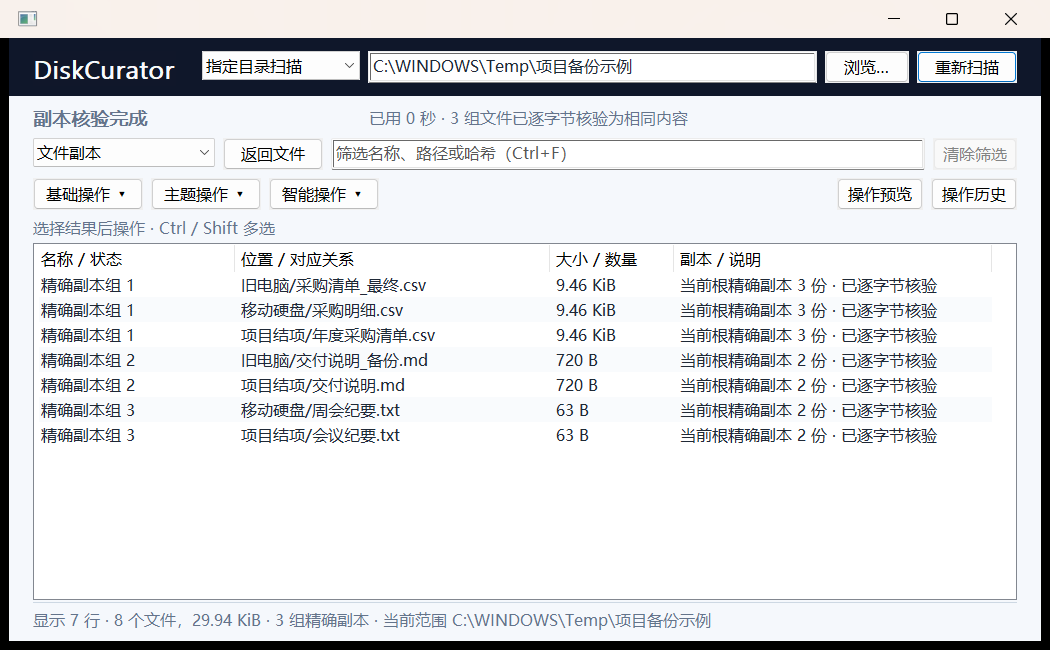
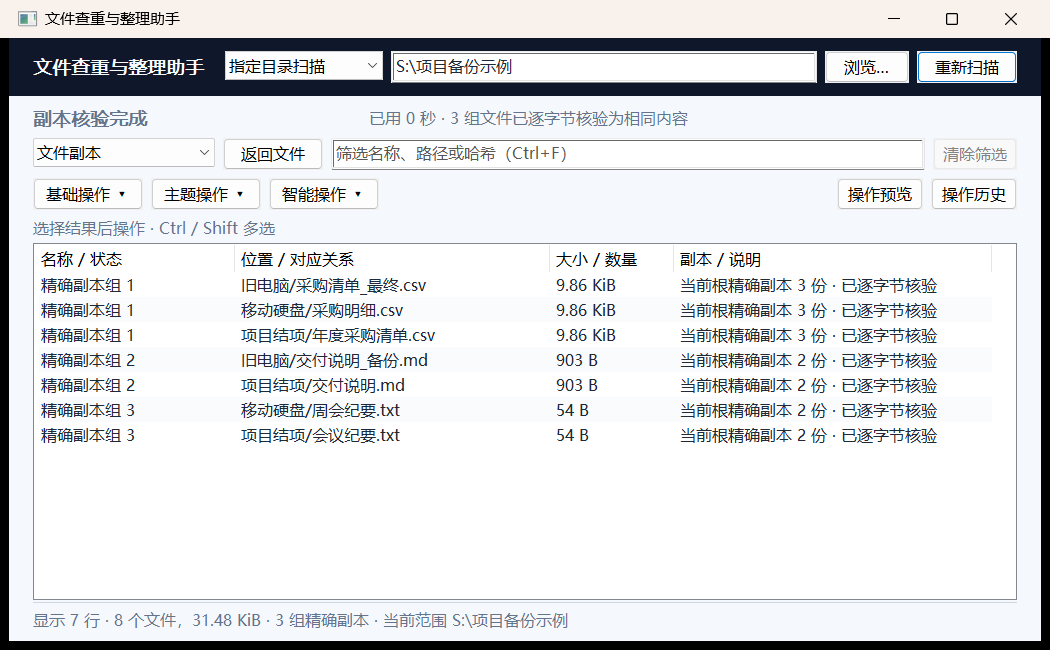
Rename the app to File Dedup Organizer and show its native window title

diff --git a/src/win_main.cpp b/src/win_main.cpp
@@ -32,6 +32,8 @@ namespace fs=std::filesystem;
 
 namespace {
 constexpr UINT WMU_DONE=WM_APP+43;
+constexpr wchar_t kProductName[]=L"文件查重与整理助手";
+constexpr int kCompactTitleWidth=184;
 enum Id { ID_ROOT=100,ID_BROWSE,ID_SCAN,ID_STOP,ID_COMPARE,ID_RENAME,ID_ARCHIVE,ID_QUARANTINE,
           ID_APPLY,ID_UNDO,ID_EXPORT,ID_PHOTO,ID_LIST=114,ID_SEARCH,ID_RELATIONS,ID_MERGE,ID_SUGGEST,ID_STRUCTURE,ID_MAP_EDIT,ID_STRUCTURE_PREVIEW,ID_STRUCTURE_REJECT,ID_RETIRE=125, ID_SCAN_SCOPE=230, ID_LENS_PICK=231, ID_BASIC_ACTIONS=240, ID_THEME_ACTIONS, ID_SMART_ACTIONS, ID_SCAN_PROGRESS, ID_PROGRESS_STAGE, ID_SELECTION_CONTEXT, ID_ALL_RESULTS, ID_PROGRESS_METRICS, ID_PROGRESS_PATH, ID_SHOW_PREVIEW, ID_SHOW_HISTORY,ID_STATUS,
           ID_CLEAR_FILTER=252,ID_WELCOME_TITLE,ID_WELCOME_DETAIL,ID_CHOOSE_FOLDER,ID_CHOOSE_DRIVES,ID_DUPLICATE_VIEW };
@@ -49,7 +51,7 @@ void set_font(HWND h,HFONT f){SendMessageW(h,WM_SETFONT,(WPARAM)f,TRUE);}
 HWND create(HWND parent,const wchar_t* cls,const wchar_t* label,DWORD style,int id,DWORD ex=0){return CreateWindowExW(ex,cls,label,style|WS_CHILD|WS_VISIBLE,0,0,40,24,parent,(HMENU)(INT_PTR)id,GetModuleHandleW(nullptr),nullptr);}
 void move(HWND h,int x,int y,int w,int height){MoveWindow(h,x,y,std::max(1,w),std::max(1,height),TRUE);}
 std::wstring bytes(dc::U64 n){return wutf8(dc::human(n));}
-void alert(HWND owner,const std::wstring& message,UINT style=MB_ICONINFORMATION){MessageBoxW(owner,message.c_str(),L"DiskCurator",style|MB_OK);}
+void alert(HWND owner,const std::wstring& message,UINT style=MB_ICONINFORMATION){MessageBoxW(owner,message.c_str(),kProductName,style|MB_OK);}
 std::wstring fmt(const fs::path& p){if(p.empty())return L".";return p.generic_wstring();}
 // A volume selection is a frozen input contract, not a request to scan all
 // currently visible drives. Volume identity is checked before and after IO.
@@ -159,7 +161,7 @@ void layout_prompt(Prompt* p){
 }
 LRESULT CALLBACK prompt_proc(HWND h,UINT msg,WPARAM w,LPARAM l){
     auto* p=reinterpret_cast<Prompt*>(GetWindowLongPtrW(h,GWLP_USERDATA));
-    if(msg==WM_NCCREATE){auto cs=reinterpret_cast<CREATESTRUCTW*>(l);p=static_cast<Prompt*>(cs->lpCreateParams);SetWindowLongPtrW(h,GWLP_USERDATA,(LONG_PTR)p);p->window=h;return TRUE;}
+    if(msg==WM_NCCREATE){auto cs=reinterpret_cast<CREATESTRUCTW*>(l);p=static_cast<Prompt*>(cs->lpCreateParams);SetWindowLongPtrW(h,GWLP_USERDATA,(LONG_PTR)p);p->window=h;return DefWindowProcW(h,msg,w,l);}
     if(!p)return DefWindowProcW(h,msg,w,l);
     if(msg==WM_CREATE){
         for(size_t i=0;i<p->fields.size();++i){
@@ -761,7 +763,7 @@ struct App {
      const int right=W-margin, width=W-2*margin, gap=8;
      const int scope_width=W<980?126:158;
      const bool ready=has_scan||full_overview();
-     const int scope_x=margin+(W<980?148:169);
+     const int scope_x=margin+kCompactTitleWidth+gap;
      const int root_x=scope_x+scope_width+gap;
      const int action_width=busy?(task_cancelable?72:0):(ready?100:0);
      const int browse_x=right-(action_width?action_width+gap:0)-84;
@@ -826,8 +828,8 @@ struct App {
      RECT rc{};GetClientRect(hwnd,&rc);const int W=rc.right,H=rc.bottom;
      const int margin=W<980?14:24;
      solid(dc,rc,kPage);solid(dc,RECT{0,0,W,58},kNavy);
-     label_at(dc,display_font,L"DiskCurator",margin,12,190,38,RGB(248,250,252));
-     if(!scope_controls_open)label_at(dc,font,L"磁盘文件整理",margin+164,16,190,31,RGB(196,215,231));
+     label_at(dc,scope_controls_open?bold_font:display_font,kProductName,margin,10,
+              scope_controls_open?kCompactTitleWidth:W-2*margin,38,RGB(248,250,252));
      if(has_scan||full_overview())solid(dc,RECT{margin,H-39,W-margin,H-38},RGB(205,216,227));
  }
  void change_view(int n,bool reset_view=false){
@@ -1366,12 +1368,12 @@ struct App {
  void run_scan(){if(scan_scope==0){
        if(selected_drives.empty()){choose_drives();if(selected_drives.empty())return;}
        for(const auto& drive:selected_drives)if(!same_drive(drive)){alert(hwnd,L"已选磁盘身份变化或已断开，请重新选择磁盘。",MB_ICONWARNING);return;}
-       if(has_pending&&MessageBoxW(hwnd,L"重新扫描将清除当前操作预览。继续吗？",L"DiskCurator",MB_YESNO|MB_ICONQUESTION)!=IDYES)return;
+       if(has_pending&&MessageBoxW(hwnd,L"重新扫描将清除当前操作预览。继续吗？",kProductName,MB_YESNO|MB_ICONQUESTION)!=IDYES)return;
        start(Task::ScanAll);return;
      }
      auto p=get_text(root_box);if(p.empty()){browse();p=get_text(root_box);}if(p.empty())return;
      std::error_code ec;auto abs=fs::absolute(fs::path(p),ec);if(ec||!fs::is_directory(abs,ec)){alert(hwnd,L"选择的目录不存在，或无法访问。",MB_ICONWARNING);return;}
-     if(has_pending&&MessageBoxW(hwnd,L"重新扫描将清除当前操作预览。继续吗？",L"DiskCurator",MB_YESNO|MB_ICONQUESTION)!=IDYES)return;
+     if(has_pending&&MessageBoxW(hwnd,L"重新扫描将清除当前操作预览。继续吗？",kProductName,MB_YESNO|MB_ICONQUESTION)!=IDYES)return;
      root=abs.lexically_normal();start(Task::Scan);
  }
  static std::wstring history_state(const std::string& state){
@@ -1761,7 +1763,7 @@ struct App {
      photo_distance=std::stoi(fields[0].value);start(Task::Photo);
  }
  void do_relations(){if(!need_scan())return;start(Task::Relations);}
- void export_csv(){if(!has_scan&&!full_overview())return;wchar_t filename[MAX_PATH]=L"DiskCurator-report.csv";
+ void export_csv(){if(!has_scan&&!full_overview())return;wchar_t filename[MAX_PATH]=L"文件整理报告.csv";
      OPENFILENAMEW of{};of.lStructSize=sizeof(of);of.hwndOwner=hwnd;of.lpstrFilter=L"CSV 文件 (*.csv)\0*.csv\0所有文件\0*.*\0";of.lpstrFile=filename;of.nMaxFile=MAX_PATH;of.Flags=OFN_OVERWRITEPROMPT|OFN_PATHMUSTEXIST;of.lpstrDefExt=L"csv";
      if(!GetSaveFileNameW(&of))return;
      std::ofstream out(fs::path(filename),std::ios::binary);if(!out){alert(hwnd,L"无法写入 CSV 文件。",MB_ICONWARNING);return;}
@@ -1945,7 +1947,7 @@ struct App {
      load_retention();
      font=CreateFontW(-16,0,0,0,FW_NORMAL,FALSE,FALSE,FALSE,DEFAULT_CHARSET,OUT_DEFAULT_PRECIS,CLIP_DEFAULT_PRECIS,CLEARTYPE_QUALITY,DEFAULT_PITCH,L"Microsoft YaHei UI");
      bold_font=CreateFontW(-18,0,0,0,FW_SEMIBOLD,FALSE,FALSE,FALSE,DEFAULT_CHARSET,OUT_DEFAULT_PRECIS,CLIP_DEFAULT_PRECIS,CLEARTYPE_QUALITY,DEFAULT_PITCH,L"Microsoft YaHei UI");
-     display_font=CreateFontW(-25,0,0,0,FW_SEMIBOLD,FALSE,FALSE,FALSE,DEFAULT_CHARSET,OUT_DEFAULT_PRECIS,CLIP_DEFAULT_PRECIS,CLEARTYPE_QUALITY,DEFAULT_PITCH,L"Segoe UI");
+     display_font=CreateFontW(-25,0,0,0,FW_SEMIBOLD,FALSE,FALSE,FALSE,DEFAULT_CHARSET,OUT_DEFAULT_PRECIS,CLIP_DEFAULT_PRECIS,CLEARTYPE_QUALITY,DEFAULT_PITCH,L"Microsoft YaHei UI");
      small_font=CreateFontW(-14,0,0,0,FW_NORMAL,FALSE,FALSE,FALSE,DEFAULT_CHARSET,OUT_DEFAULT_PRECIS,CLIP_DEFAULT_PRECIS,CLEARTYPE_QUALITY,DEFAULT_PITCH,L"Microsoft YaHei UI");
      page_brush=CreateSolidBrush(kPage);
      scope_pick=create(hwnd,WC_COMBOBOXW,L"",CBS_DROPDOWNLIST|WS_TABSTOP|WS_VSCROLL,ID_SCAN_SCOPE);
@@ -1994,7 +1996,7 @@ struct App {
 
 LRESULT CALLBACK main_proc(HWND hwnd,UINT msg,WPARAM w,LPARAM l){
     auto* app=reinterpret_cast<App*>(GetWindowLongPtrW(hwnd,GWLP_USERDATA));
-    if(msg==WM_NCCREATE){auto* cs=reinterpret_cast<CREATESTRUCTW*>(l);app=static_cast<App*>(cs->lpCreateParams);SetWindowLongPtrW(hwnd,GWLP_USERDATA,(LONG_PTR)app);app->hwnd=hwnd;return TRUE;}
+    if(msg==WM_NCCREATE){auto* cs=reinterpret_cast<CREATESTRUCTW*>(l);app=static_cast<App*>(cs->lpCreateParams);SetWindowLongPtrW(hwnd,GWLP_USERDATA,(LONG_PTR)app);app->hwnd=hwnd;return DefWindowProcW(hwnd,msg,w,l);}
     if(!app)return DefWindowProcW(hwnd,msg,w,l);
     try{
         switch(msg){
@@ -2101,7 +2103,7 @@ int WINAPI wWinMain(HINSTANCE inst,HINSTANCE,LPWSTR,int show){
     RECT work_area{};SystemParametersInfoW(SPI_GETWORKAREA,0,&work_area,0);
     const int initial_width=std::clamp<int>(work_area.right-work_area.left-40,800,1360);
     const int initial_height=std::clamp<int>(work_area.bottom-work_area.top-40,580,850);
-    App app;HWND wnd=CreateWindowExW(0,wc.lpszClassName,L"DiskCurator · 扫描结果与文件整理",WS_OVERLAPPEDWINDOW|WS_CLIPCHILDREN,CW_USEDEFAULT,CW_USEDEFAULT,initial_width,initial_height,nullptr,nullptr,inst,&app);
+    App app;HWND wnd=CreateWindowExW(0,wc.lpszClassName,kProductName,WS_OVERLAPPEDWINDOW|WS_CLIPCHILDREN,CW_USEDEFAULT,CW_USEDEFAULT,initial_width,initial_height,nullptr,nullptr,inst,&app);
     if(!wnd){if(com)CoUninitialize();return 3;}
     ShowWindow(wnd,show);UpdateWindow(wnd);
     MSG m{};while(GetMessageW(&m,nullptr,0,0)>0){if(app.handle_key(m))continue;TranslateMessage(&m);DispatchMessageW(&m);}

diff --git a/src/core.cpp b/src/core.cpp
@@ -1143,7 +1143,7 @@ struct RootMutationLock {
         if(!handle)throw std::runtime_error("Cannot acquire root operation mutex");
         auto state=WaitForSingleObject(handle,0);
         if(state!=WAIT_OBJECT_0&&state!=WAIT_ABANDONED){CloseHandle(handle);handle=nullptr;
-            throw std::runtime_error("Another DiskCurator instance is changing this directory");}
+            throw std::runtime_error("Another File Dedup Organizer instance is changing this directory");}
         owns=true;
     }
     ~RootMutationLock(){if(owns)ReleaseMutex(handle);if(handle)CloseHandle(handle);}
@@ -1334,7 +1334,7 @@ static void verify_workspace(const fs::path& root){
     // byte spellings so existing workspaces (and their journals/quarantine) are
     // usable without destructive migration. Reject any trailing payload.
     std::ifstream in(owner,std::ios::binary);
-    if(!in)throw std::runtime_error("Cannot read DiskCurator workspace marker");
+    if(!in)throw std::runtime_error("Cannot read the workspace owner marker");
     std::array<char,64> marker_bytes{};
     in.read(marker_bytes.data(),static_cast<std::streamsize>(marker_bytes.size()));
     const auto count=static_cast<size_t>(in.gcount());
@@ -1342,7 +1342,7 @@ static void verify_workspace(const fs::path& root){
     if(in.bad()||count==marker_bytes.size()||
        (marker!="DiskCurator Native workspace v1\n" &&
         marker!="DiskCurator Native workspace v1\r\n"))
-        throw std::runtime_error("Invalid DiskCurator workspace marker");
+        throw std::runtime_error("Invalid workspace owner marker");
     for(auto name:{L"journal",L"stage",L"quarantine"})
         (void)existing_ordinary(root/SYS/name,true);
 }
@@ -1947,7 +1947,7 @@ StructurePlan plan_structure(const Inventory& inv,const StructureSuggestion& pro
         bool known_output=false;
         for(const auto& h:history(inv.root))
             if(h.label==marker&&(h.status=="DONE"||h.status=="PARTIAL"))known_output=true;
-        if(!known_output)throw std::runtime_error("Proposed output folder already contains user data and was not created by DiskCurator; choose a new output folder");
+        if(!known_output)throw std::runtime_error("Proposed output folder already contains user data and was not created by File Dedup Organizer; choose a new output folder");
     }
     // File-level explicit mappings take precedence over heuristic category rules.
     // Targets are relative to output_base, never absolute or outside the selected root.

diff --git a/src/cli.cpp b/src/cli.cpp
@@ -9,7 +9,8 @@
 #include <string>
 #include <vector>
 using namespace dc;
-static void usage(){std::cout<<"DiskCurator Native " DISKCURATOR_VERSION " (C++17)\n"
+static void usage(){std::cout<<"File Dedup Organizer " DISKCURATOR_VERSION "\n"
+  "Find duplicate files, compare backups and organize folders.\n"
   "  dc_cli --help | --version\n  Options may precede operands. Use -- before a path beginning with --.\n"
   "  dc_cli scan ROOT\n  dc_cli hashes ROOT\n  dc_cli duplicates ROOT\n  dc_cli folders ROOT\n"
   "  dc_cli compare ROOT RELATIVE_A RELATIVE_B\n  dc_cli pair ROOT RELATIVE_A RELATIVE_B\n  dc_cli relations ROOT\n"

diff --git a/RELEASE-ACCEPTANCE.md b/RELEASE-ACCEPTANCE.md
@@ -1,16 +1,14 @@
-# DiskCurator Native 1.0.5 Windows 验收记录
+# 文件查重与整理助手 1.0.6 · Windows 验收记录
 
-2026-11-20 在 Windows x64 10.0.26200 上使用 Visual Studio 2022、MSVC 19.44 和 Windows SDK 10.0.26100 构建 Release 版。文件操作使用临时夹具。
+本版在 Windows 10.0.26200 x64 上使用 Visual Studio 2022 和 Windows SDK 10.0.26100 构建。文件操作均使用测试目录中的示例文件。
 
-| 场景 | 本机结果 |
+| 验收场景 | 实测结果 |
 |---|---|
-| 首次选择范围 | 820×600 窗口内只展示文件夹和磁盘两个入口，磁盘默认不勾选。取消选择可返回首页，选定范围后可以开始扫描。 |
-| 浏览和核验 | 扫描统计保持可见，空闲时隐藏停止按钮和进度条。单根扫描可从“重复文件”进入候选列表，再按“核验副本”进行内容核验，最后返回文件列表。无副本与无匹配的两种场景均按零行处理。 |
-| 定位和改名 | F2 打开选中文件的改名表单。独立桌面实测使用两个中文文件，在列表筛选后按 Enter，通过 Windows Shell 核对资源管理器中选中文件的完整路径。 |
-| 核对操作预览 | 从已筛选视图生成计划以及在同一视图重新生成计划，均清除旧查询、展示整份计划并回到首行。浏览文件时可打开待执行计划，预览内显示确认按钮。最终确认列出根目录和实际路径示例，默认选“否”。拒绝后预览和筛选保留，源文件仍在原位。 |
-| 执行与异常 | 确认复制后核对来源和目标内容、查看操作历史，旧扫描结果保持只读。缓存不可写时，仍能观察、核验和预览，切换视角后仍可见告警。 |
-| 命令行与核心 | 16/16 项 CTest 通过，耗时 29.06 秒。中文路径、保留策略、隔离、融合、归档、撤销及两组原生 GUI 回归通过。诊断工具扫描 17 个测试文件，读取错误为 0。 |
+| 下载与启动 | 便携包内的主程序名为 `文件查重与整理助手.exe`。启动后的主窗口和资源管理器中的产品名称与之相符。命令行 `dc_cli --version` 返回 `1.0.6`。 |
+| 旧版工作目录 | 用 1.0.5 给一个中文文件改名，再用 1.0.6 查看同一条历史并撤销。原文件名和内容均已还原。 |
+| 界面回归 | 在 820×600 窗口选择范围、查重、筛选、核验、预览、确认复制和查看历史。模拟缓存不可写时，仍能浏览和核验。 |
+| 核心和命令行 | 全部 16 项 CTest 通过。Windows CLI、保留策略、无效参数和诊断扫描通过。 |
 
-源码包提供[构建日志](qa/v1.0.5-windows-build.txt)、[完整测试输出](qa/v1.0.5-windows-validation.txt)和实机界面截图。[首次打开](qa/v1.0.5-ui/01-welcome.png) · [扫描结果](qa/v1.0.5-ui/02-results.png) · [操作预览](qa/v1.0.5-ui/03-preview.png)
+[本机构建日志](qa/v1.0.6-windows-build.txt) · [Windows 回归输出](qa/v1.0.6-windows-validation.txt) · [实际查重窗口](docs/images/duplicate-files.png)
 
-公开日志已替换本机用户目录前缀。便携包的 WINDOWS-AUTOMATED-VALIDATION.txt 绑定三个二进制程序及 CTest 日志的 SHA-256，SHA256SUMS.txt 列出包内文件摘要。真实外接盘断电恢复、跨显示器缩放和大容量磁盘长时间扫描的验证范围见 [TESTING.md](TESTING.md)。
+便携包附带 `SHA256SUMS.txt` 和与受测程序绑定的 `WINDOWS-AUTOMATED-VALIDATION.txt`。硬件验证范围见[测试指南](TESTING.md)。

diff --git a/README.md b/README.md
@@ -1,10 +1,10 @@
-# DiskCurator · Windows 磁盘文件整理工具
+# 文件查重与整理助手
 
-准备换电脑时，旧硬盘上往往还躺着好几份“桌面备份”。改过名字的照片可能是同一张，两个都叫“最终版”的报价单却可能写着不同的价格。DiskCurator 帮你按文件内容找副本、对照两份备份的差异，再决定哪些该留下、哪些该归到一起。
+找出内容相同的文件，对比两份备份的差异，按类型或日期归档。换电脑时，即使同一张照片在两份“桌面备份”里改过名字，也能找到它的副本。两个都叫“最终版”的报价单，则可以按内容核对后再决定保留哪一份。
 
 适用于 **Windows 10 / 11 x64**，解压即可运行。扫描和核对都在本机完成，整理前可以逐项查看文件会从哪里移到哪里。
 
-**[下载 Windows 便携版 v1.0.5](https://github.com/drizzletown/DiskCurator/releases/download/v1.0.5/DiskCurator-Native-v1.0.5-Win64.zip)** · [所有版本与校验文件](https://github.com/drizzletown/DiskCurator/releases)
+**[下载 Windows 便携版 v1.0.6](https://github.com/drizzletown/DiskCurator/releases/download/v1.0.6/File-Dedup-Organizer-v1.0.6-Win64.zip)** · [所有版本与校验文件](https://github.com/drizzletown/DiskCurator/releases)
 
 ## 什么时候用得上？
 
@@ -19,7 +19,7 @@
 
 ## 第一次用，先找一组重复文件
 
-1. 解压便携包，双击 `DiskCurator.exe`。点 **选择文件夹…**，选一个熟悉的备份目录，再点 **开始扫描**。
+1. 解压便携包，双击 `文件查重与整理助手.exe`。点 **选择文件夹…**，选一个熟悉的备份目录，再点 **开始扫描**。
 2. 扫描结束后点 **重复文件**，查看每组文件的位置。双击文件可在资源管理器中定位并选中它。按 `Ctrl+F` 可按名称或路径筛选，按 `Esc` 恢复列表。
 3. 想进一步确认内容时，点 **核验副本**。核验完成后，点 **返回文件** 回到文件列表。只想查重，到这里就可以结束。需要整理时，再选择操作，在预览中核对来源、目标和数量后点 **确认执行…**。
 
@@ -29,4 +29,4 @@
 
 命令行用户可运行 `dc_cli --help` 查看命令。从源码构建需要 Visual Studio 2022 C++ 桌面开发工具、Windows SDK 和 CMake 3.21 或更新版本。运行 `scripts\build_windows.bat` 后，便携包和 SHA-256 校验文件位于 `dist`。
 
-[版本改动](RELEASE-v1.0.5.md) · [Windows 验收记录](RELEASE-ACCEPTANCE.md) · [测试指南](TESTING.md) · [产品需求](REQUIREMENTS.md) · [总体架构](ARCHITECTURE.md)
+[版本改动](RELEASE-v1.0.6.md) · [Windows 验收记录](RELEASE-ACCEPTANCE.md) · [测试指南](TESTING.md) · [产品需求](REQUIREMENTS.md) · [总体架构](ARCHITECTURE.md)

diff --git a/REQUIREMENTS.md b/REQUIREMENTS.md
@@ -1,6 +1,6 @@
-# DiskCurator Native 1.0.5 产品需求与验收矩阵
+# 文件查重与整理助手 1.0.6 产品需求与验收矩阵
 
-DiskCurator 供用户整理本地目录和移动硬盘上的备份。用户先指定磁盘或目录，读取内容并查看结果，再决定保留哪些副本、如何归档或合并目录。图形界面和命令行共用文件判定、计划和事务执行器。交付目标为 Windows 10/11 x64。
+文件查重与整理助手供用户核对、归档本地目录和移动硬盘上的文件。用户先指定磁盘或目录，读取内容并查看结果，再决定保留哪些副本、如何归档或合并目录。图形界面和命令行共用文件判定、计划和事务执行器。交付目标为 Windows 10/11 x64。
 
 这是当前工程的需求入口。下表沿用 DC-DESIGN-2.6 的编号，列出可观察的通过条件。自动用例列使用 CTest 名称或 Windows 脚本名，复跑命令见 [测试指南](TESTING.md)。表中列出用例表示有检查入口，各构建的通过情况只以 [发布验收记录](RELEASE-ACCEPTANCE.md) 为准。
 

diff --git a/DESIGN-BASELINE.md b/DESIGN-BASELINE.md
@@ -1,6 +1,6 @@
 # 设计基线与当前交付
 
-Native 1.0.5 采用 DC-DESIGN-2.6。当前范围、行为判据、对应测试和后续能力集中在 [产品需求与验收矩阵](REQUIREMENTS.md)，实际执行过的检查和设备范围以 [发布验收记录](RELEASE-ACCEPTANCE.md) 为准。
+文件查重与整理助手 1.0.6 采用 DC-DESIGN-2.6。当前范围、行为判据、对应测试和后续能力集中在 [产品需求与验收矩阵](REQUIREMENTS.md)，实际执行过的检查和设备范围以 [发布验收记录](RELEASE-ACCEPTANCE.md) 为准。
 
 用户明确指定扫描范围，取得带内容哈希的只读库存，再选择分析对象和操作。候选可跨盘观察，精确数注明核验范围，写操作绑定单根计划和相应策略。GUI 写后保留过期快照并等待用户显式重扫。CLI 的目录比较与融合先扫描传入根，再对指定子树做内容核验。输入选项和执行确认的规则记录在需求矩阵。
 

diff --git a/RELEASE-v1.0.6.md b/RELEASE-v1.0.6.md
@@ -1,0 +1,9 @@
+# 文件查重与整理助手 1.0.6
+
+原 DiskCurator 现更名为“文件查重与整理助手”，英文名为 File Dedup Organizer。它按内容查找重复文件、核对备份差异，并帮助你将文件归档。
+
+- 下载 Windows 便携包 `File-Dedup-Organizer-v1.0.6-Win64.zip` 后解压，双击 `文件查重与整理助手.exe`。第一次使用可以先选一个熟悉的文件夹，开始扫描，再点“重复文件”。
+- 如果从旧版本升级，请将指向 `DiskCurator.exe` 的快捷方式改为指向新程序。已有的操作历史和隔离文件可以在新版本中继续使用。
+- 命令行入口仍为 `dc_cli.exe`。运行 `dc_cli --help` 查看可用命令。
+
+快速上手见 START-HERE.txt。文件恢复方法见 SECURITY.md，本版测试结果见 RELEASE-ACCEPTANCE.md。

diff --git a/TESTING.md b/TESTING.md
@@ -1,6 +1,6 @@
 # Windows 构建与验收
 
-每个通过结论绑定到一个构建及其执行记录。需求、通过条件和对应的 CTest/脚本见[需求矩阵](REQUIREMENTS.md)。本版结果见[发布验收记录](RELEASE-ACCEPTANCE.md)和 [Windows 自动验收日志](qa/v1.0.5-windows-validation.txt)。
+每个通过结论绑定到一个构建及其执行记录。需求、通过条件和对应的 CTest/脚本见[需求矩阵](REQUIREMENTS.md)。本版结果见[发布验收记录](RELEASE-ACCEPTANCE.md)和 [Windows 自动验收日志](qa/v1.0.6-windows-validation.txt)。
 
 ## 构建并执行发布检查
 

diff --git a/CHANGELOG.md b/CHANGELOG.md
@@ -1,5 +1,9 @@
 # 版本记录
 
+## 1.0.6
+
+DiskCurator 更名为“文件查重与整理助手”（File Dedup Organizer）。下载便携包后，双击同名程序即可开始查重。升级后可继续使用已有的操作历史和隔离区。
+
 ## 1.0.5
 
 首次打开时直接选择文件夹或磁盘。完成扫描后，收起进度条，给结果列表留出更多空间。在重复文件视图里可以直接核验候选、返回文件列表。新预览会清除旧筛选，方便先看整理范围和预计改动。

diff --git a/ARCHITECTURE.md b/ARCHITECTURE.md
@@ -1,6 +1,6 @@
 # 架构与状态约束
 
-DiskCurator 采用 C++17。Windows GUI 使用 Win32 Common Controls，CLI、GUI 与诊断工具链接同一个核心库。以下路径相对工程根目录。
+文件查重与整理助手采用 C++17。Windows GUI 使用 Win32 Common Controls，CLI、GUI 与诊断工具链接同一个核心库。以下路径相对工程根目录。
 
 | 环节 | 实现 | 传给下一步的数据 |
 |---|---|---|

diff --git a/DONATE.md b/DONATE.md
@@ -1,6 +1,6 @@
-# 赞助 DiskCurator
+# 赞赏文件查重与整理助手
 
-如果 DiskCurator 帮你找回了散落的文件，或省下了整理硬盘的时间，欢迎自愿赞助后续开发与维护。
+如果这个工具帮你找出了重复照片，或省下了核对备份的时间，欢迎自愿赞赏，支持后续开发和维护。
 
 ## 微信赞赏
 
